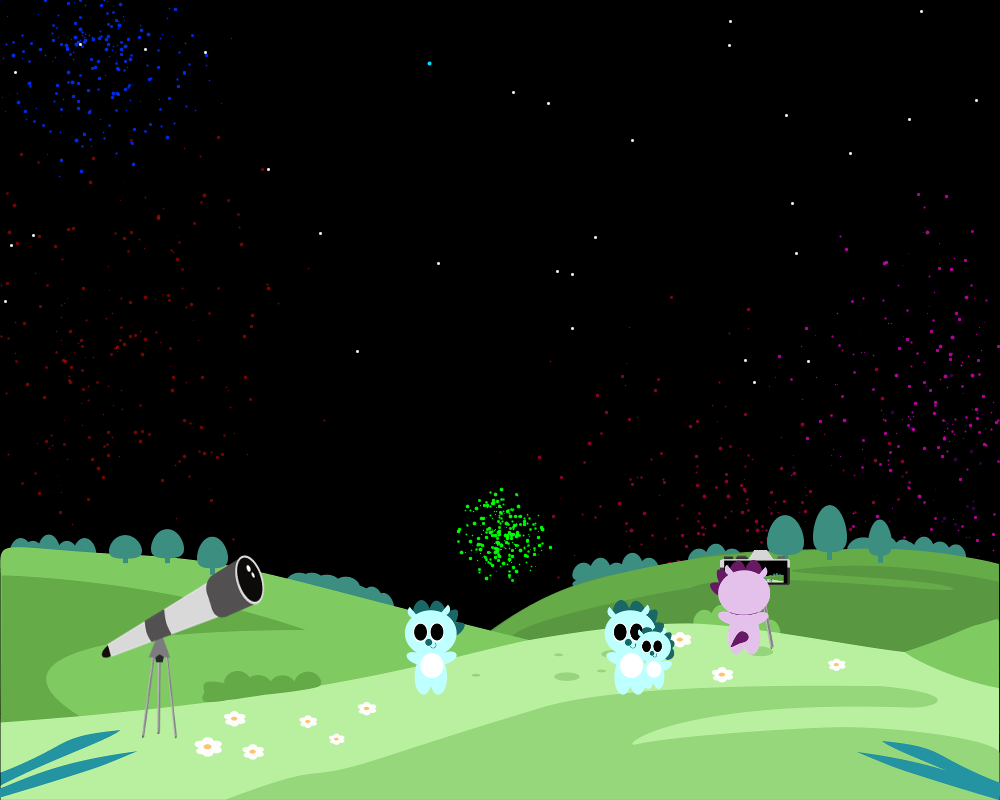
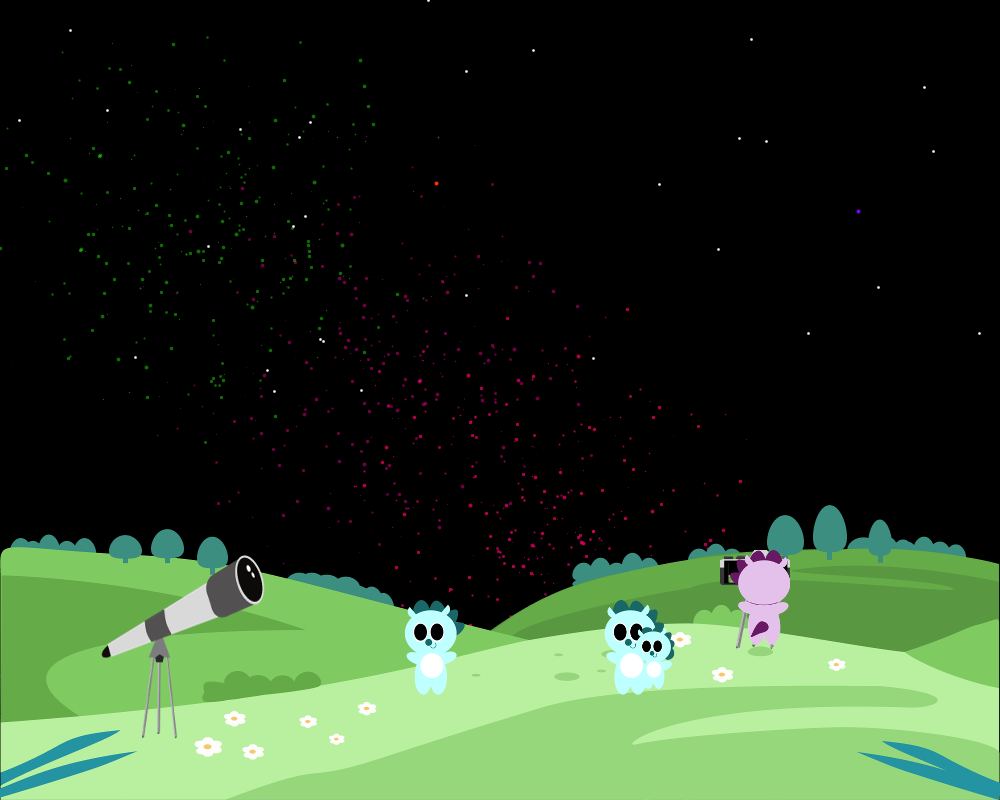
소리추가

diff --git a/main/firework.py b/main/firework.py
@@ -1,11 +1,14 @@
 from fireworkParticle import FireworkParticle
+from processing.sound import SoundFile
 
 class Firework:
-    def __init__(self):
+    def __init__(self, x, y, gravity):
         self.hue = random(255)
-        self.gravity = PVector(0, 0.2)
-        self.firework = FireworkParticle(random(width), height, self.hue, False)
+        self.gravity = gravity
+        self.firework = FireworkParticle(x, y, self.hue, False)
         self.exploded = False
+        self.isSoundPlayed = False
+        self.soundFile = SoundFile(this, "explosion.mp3")
         self.particles = []
 
     def done(self):
@@ -16,6 +19,11 @@ class Firework:
             self.firework.apply_force(self.gravity)
             self.firework.update()
 
+            print(self.firework.vel.y)
+            if self.firework.vel.y >= -1.2:
+                if not self.isSoundPlayed:
+                    self.isSoundPlayed = True
+                    self.soundFile.play()
             if self.firework.vel.y >= 0:
                 self.exploded = True
                 self.explode()

diff --git a/main/page1_1.py b/main/page1_1.py
@@ -2,7 +2,7 @@ from content import Content
 from page import Page
 from firstFirework import FirstFirework
 from processing.sound import SoundFile
-add_library("sound")
+
 
 class Page1_1:
     def __init__(self):
@@ -14,7 +14,7 @@ class Page1_1:
         self.buildingImage = loadImage("building1.png")
         for i in range(30):  # adjust amount of stars here
             self.stars.append(PVector(random(width), random(height)))
-        self.sf = SoundFile(this,"explosion.mp3")
+        self.sf = SoundFile(this, "explosion.mp3")
        
         self.backgroundColor = 0
         self.gaugeExist = True;

diff --git a/main/page3_3.py b/main/page3_3.py
@@ -65,7 +65,7 @@ class Page3_3:
         # Draw fireworks
         if self.fireworksCnt <= 15:
             if random(1) < 0.1:
-                self.fireworks.append(Firework())
+                self.fireworks.append(Firework(random(width), height, PVector(0, 0.2)))
                 self.fireworksCnt = self.fireworksCnt +1
     
         for firework in self.fireworks[:]:

diff --git a/main/page2_2.py b/main/page2_2.py
@@ -81,7 +81,7 @@ class Page2_2:
         
         # Draw fireworks
         if random(1) < 0.07:
-            self.fireworks.append(Firework())
+            self.fireworks.append(Firework(random(width), height-200, PVector(0, 0.3)))
     
         for firework in self.fireworks[:]:
             firework.update()
